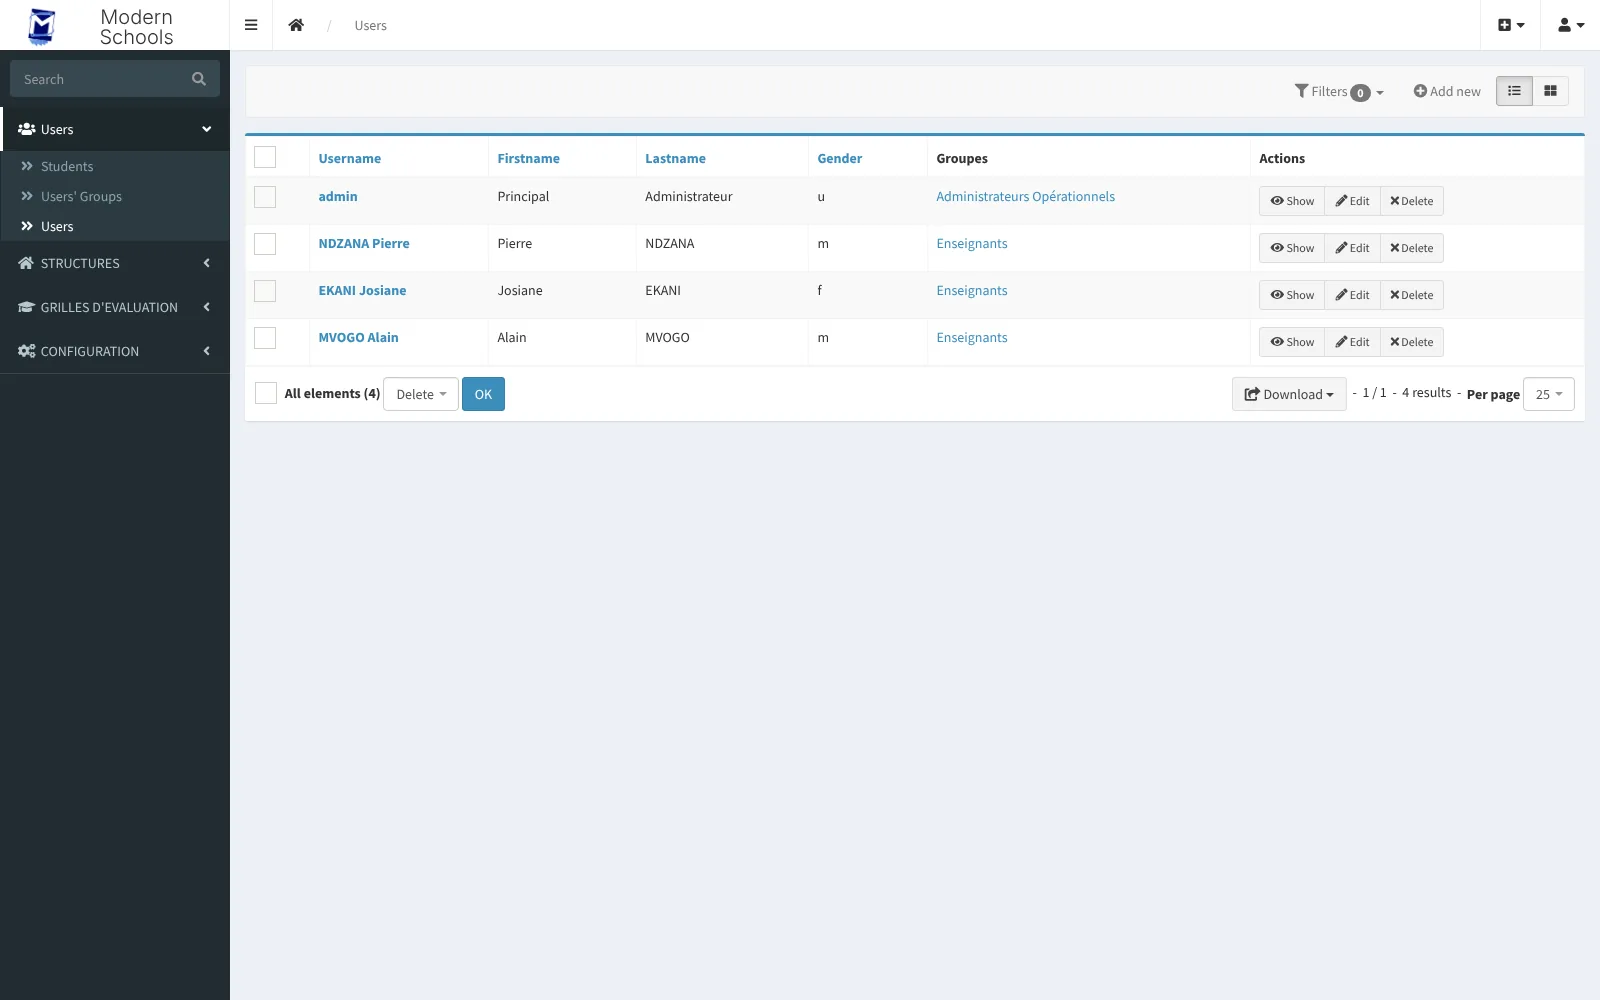
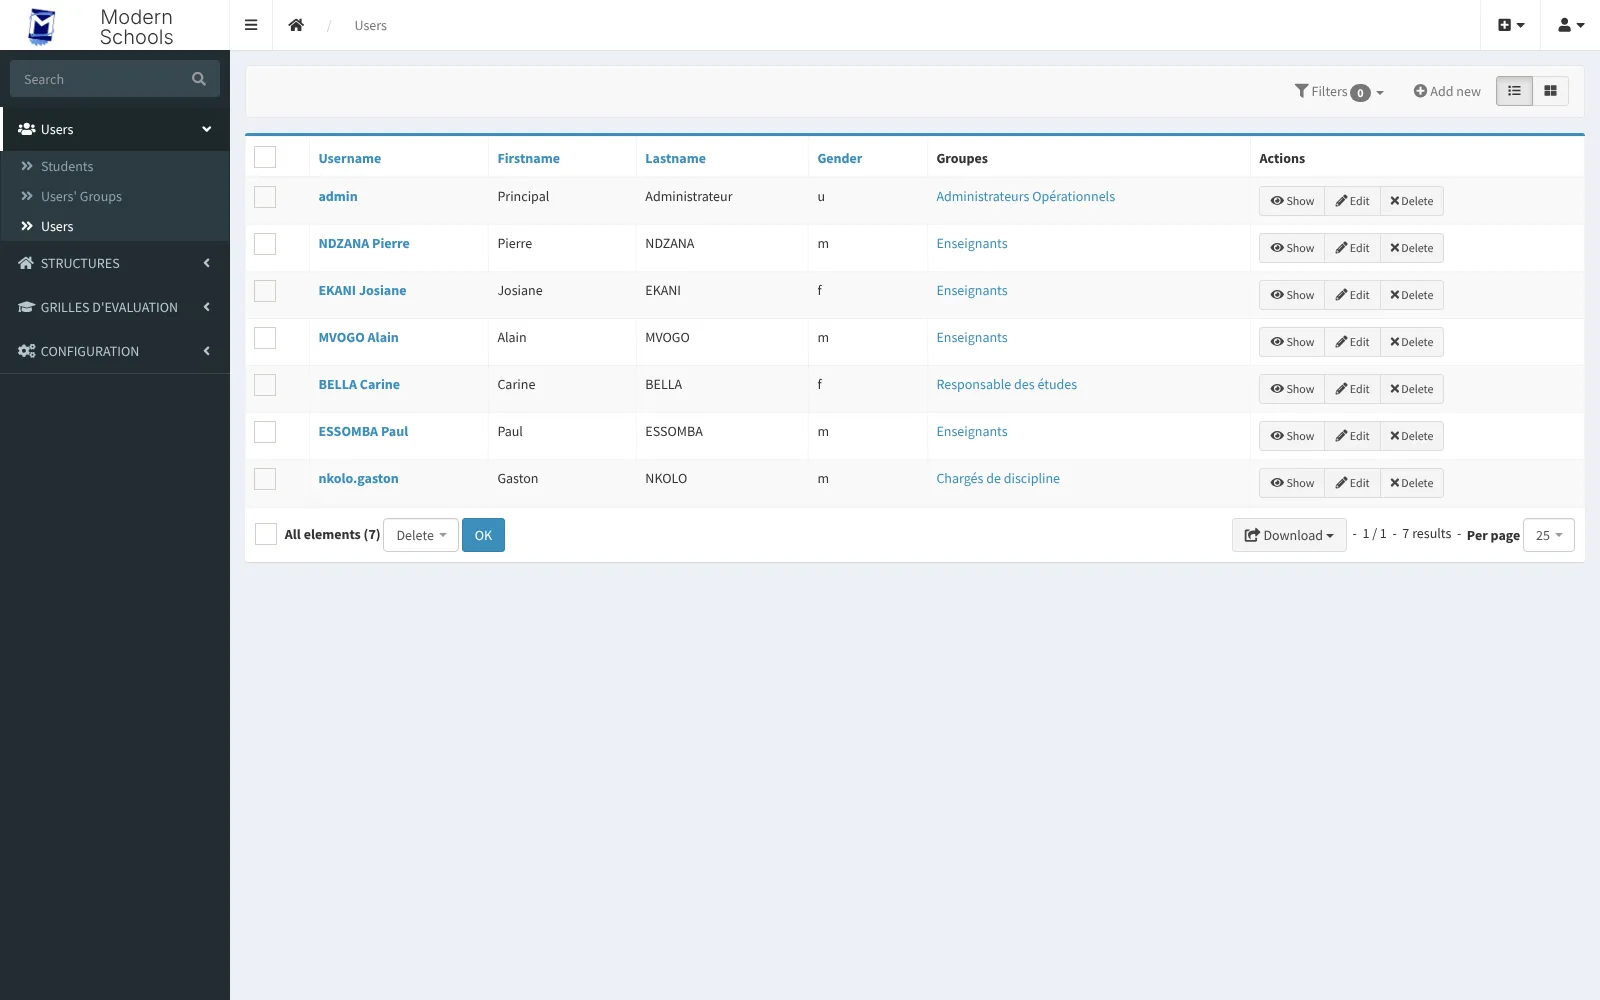
Création d'un utilisateur : captures sans mot de passe, procédure détaillée
- Nouvelles captures FR/EN (élève fictive MBIDA Rose) : formulaire sans
  champ mot de passe, groupe obligatoire, compte créé.
- users/create-teacher : section « À la main » en étapes, avec
  réinitialisation via Actions.
- Vidéo creer-utilisateur refaite (1:04).

Claude-Session: https://claude.ai/code/session_01Ektu1G1Y8c1bs4ArrTrseT

diff --git a/tools/videos/creer-utilisateur.js b/tools/videos/creer-utilisateur.js
@@ -1,5 +1,5 @@
 // Mini-tutoriel « Créer un compte utilisateur » (narration : tools/videos/videos.json)
-window.TOTAL = 57;
+window.TOTAL = 64;
 window.D = {
  "title": "Créer un compte utilisateur",
  "subtitle": "Administration : un enseignant, un comptable, un censeur…",
@@ -22,8 +22,8 @@ window.D = {
    "src": "web/users/create-identity",
    "w": 1600,
    "h": 1000,
-   "dur": 11,
-   "text": "Nom, prénoms, genre, nom d'utilisateur ; mot de passe vide = mot de passe par défaut du rôle",
+   "dur": 10,
+   "text": "Nom, prénoms, genre, nom d'utilisateur : aucun mot de passe à saisir",
    "focus": [
     14,
     18,
@@ -36,8 +36,8 @@ window.D = {
    "src": "web/users/create-groups",
    "w": 1600,
    "h": 1000,
-   "dur": 7,
-   "text": "Onglet « Informations complémentaires » : le groupe",
+   "dur": 8,
+   "text": "Onglet « Informations complémentaires » : le groupe fixe le rôle",
    "focus": [
     50,
     24,
@@ -92,8 +92,8 @@ window.D = {
    "src": "web/users/list-after",
    "w": 1600,
    "h": 1000,
-   "dur": 6,
-   "text": "Le compte apparaît dans la liste",
+   "dur": 8,
+   "text": "Connexion avec le mot de passe par défaut du groupe, puis le sien",
    "focus": [
     14,
     6,
@@ -101,6 +101,20 @@ window.D = {
     30
    ],
    "maxZoom": 1.3
+  },
+  {
+   "src": "web/roles/admin-reinitialiser",
+   "w": 1600,
+   "h": 1000,
+   "dur": 9,
+   "text": "Oubli : Actions → Réinitialiser le mot de passe",
+   "focus": [
+    70,
+    6,
+    30,
+    22
+   ],
+   "maxZoom": 1.8
   }
  ]
 };
